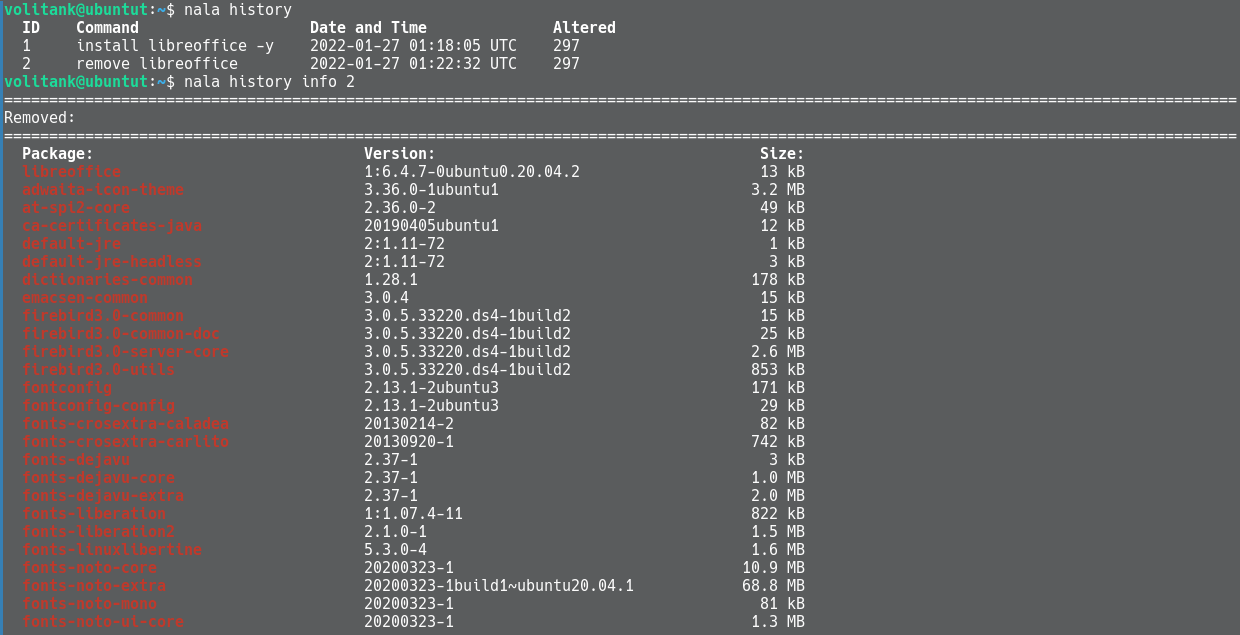
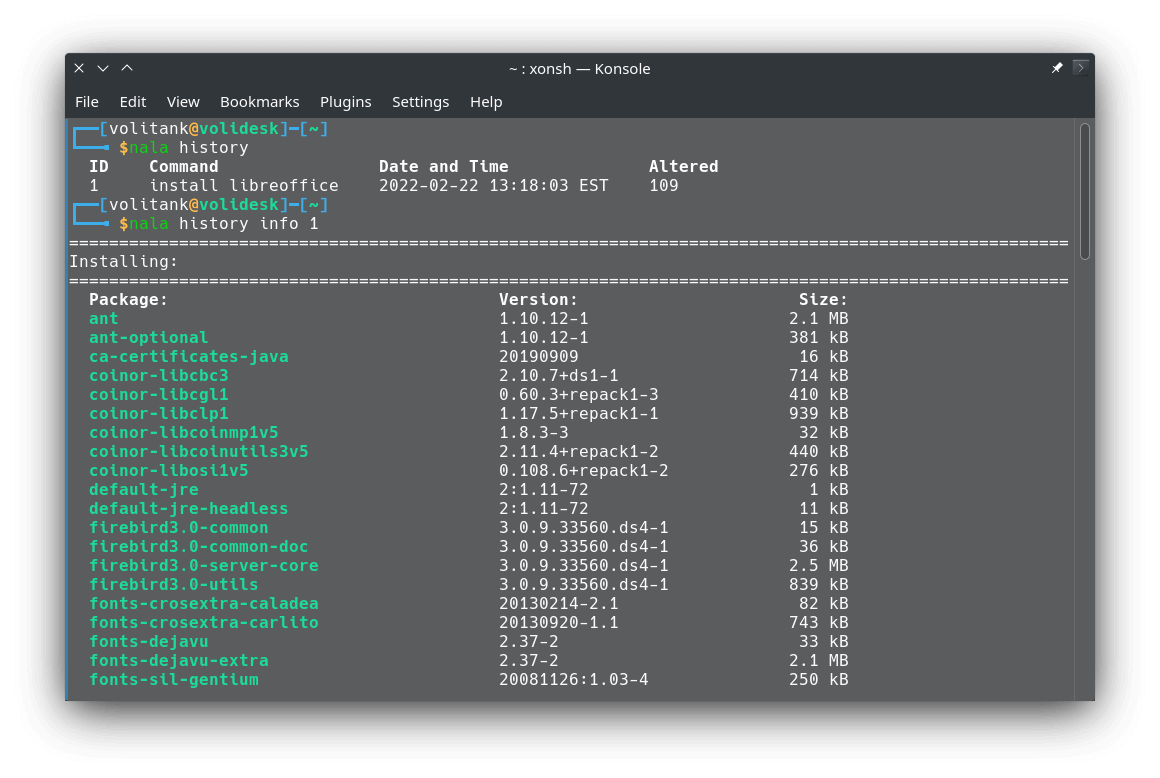
docs(readme): improve quality of image examples

diff --git a/README.rst b/README.rst
@@ -56,7 +56,8 @@ If there is something in the history file that you don't want you can use the ``
 Alternatively for the ``clear`` command we accept ``all`` as an argument which will remove the entire history.
 
 .. image:: /imgs/nala-history-info.png
-.. image:: /imgs/nala-history-undo.png
+.. image:: /imgs/nala-history-undo-1.png
+.. image:: /imgs/nala-history-undo-2.png
 
 # Installation
 ==============
